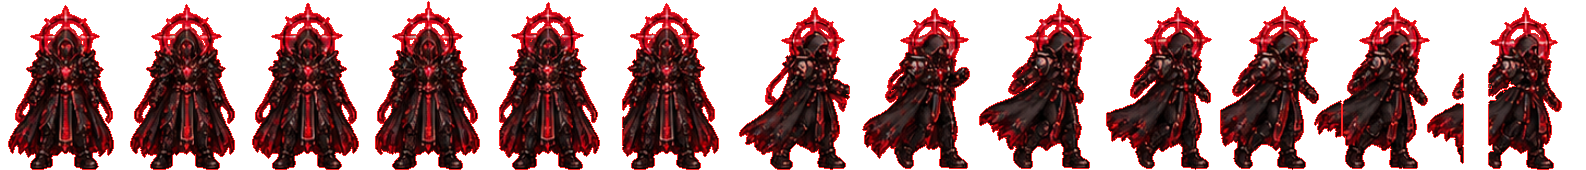
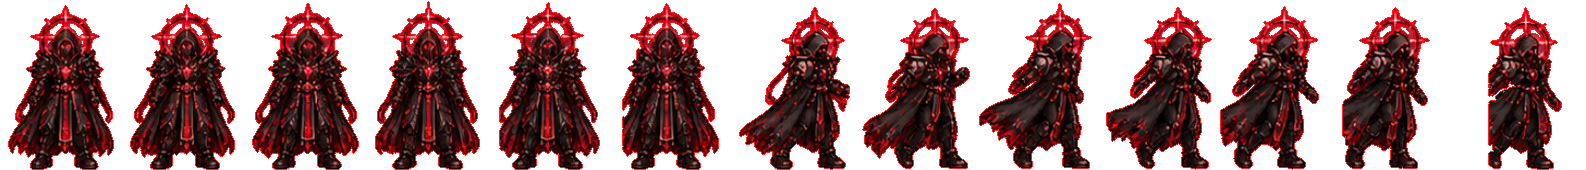
fix: 집정관·헥타르 수석 연구원·마기카이저 그림에 딸려 들어온 옆 프레임 조각 제거, 수석 연구원 이동 다시 자르기

Changed region(s): [[0.896, 0.6176, 0.9269, 0.9118], [0.8033, 0.5882, 0.8651, 0.7941], [0.896, 0.4706, 0.9269, 0.5882]]

diff --git a/docs/DECISIONS.md b/docs/DECISIONS.md
@@ -782,3 +782,4 @@
 - 2026-11-12: 보스 패턴 빈도(사용자 지정): 융합악귀·전기환띠·마기골렘을 뺀 보스(헥타르 수석 연구원·식광·마기카이저·히든보스 3종)는 패턴 사이 쉬는 시간 절반, 패턴 쿨타임 ×0.7. 패턴이 도는 동안 0.4초마다 45% 확률로 두 번째 패턴을 같이 쓴다(bosses overlap, 동시에 최대 2개). 두 번째는 본체가 움직이지 않는 패턴만(moves 표시: 마기카이저 주먹·돌진·멸망 명령, 선조의 메아리 회전 돌진, 왕실 마법사 점멸 탄막·마기 강타). 쿨타임은 일반 순환과 같이 쓴다.
 - 2026-11-12: 집행자·집정관 예고 단축(사용자 지정): 집행자 도끼 내려찍기 준비 0.6→0.05초(사실상 즉시), 밧줄 0.7→0.35초, 끌어온 뒤 도끼 0.6→0.15초. 집정관 저격 조준 1.5→0.75초(고정 0.3→0.15). 이펙트는 pixelfx 무기 그림을 물들여 쓴다: 도끼 내려찍기 fx_w_smash4·끌어온 뒤 베기 fx_w_slash4(붉은색), 저격 fx_w_beam4(보라). 공격 정의에 fx 필드.
 - 2026-11-12: 회피 재사용 대기는 회피 동작(구르기·도약 체공·방패 돌격)이 다 끝난 뒤부터 돈다(전 직업).
+- 2026-11-12: 움직일 때 잘려 보이던 적 그림 수정: 원본 줄 그림을 칸으로 자를 때 옆 자세의 끝자락이 칸 가장자리에 딸려 들어와 있었다. scripts/clean-slivers.cjs가 프레임마다 몸(가장 큰 덩어리)은 두고 칸 좌우 가장자리에 닿은 작은 조각만 지운다(집정관·마기카이저·헥타르 수석 연구원 2단계·고대의 존재, 다른 적은 가장자리에 닿은 장식이 진짜 그림이라 넣지 않음). 헥타르 수석 연구원 이동은 걸음 4개가 3칸에 잘려 있어 잘린 자리의 붉은 외곽선을 메우고 4칸으로 다시 잘랐다(이동 3→4프레임, 시전 프레임 7~9). 원본(v174)으로 art:build를 다시 돌리면 이 수정이 사라지니 그 뒤 clean-slivers --write를 다시 돌리고 수석 연구원 이동은 다시 손봐야 한다.

diff --git a/docs/ASSETS.md b/docs/ASSETS.md
@@ -158,7 +158,7 @@
 | `enemy_ancestor_echo` | 선조의 잔상 | 42×42 | feet | #b0583a | mku/enemy_ancestor_echo.png (16프레임) |
 | `enemy_royal_mage` | 왕속특무 마기법사 외 1곳 | 33×33 | feet | #6a4ad9 | mku/enemy_royal_mage.png (8프레임) |
 | `enemy_orion_crusader` | 오리온의 성전사 | 42×42 | feet | #d9c25a | mku/enemy_orion_crusader.png (16프레임) |
-| `enemy_hectar_chief` | 헥타르 수석 연구원 | 36×36 | feet | #3a9aff | mku/enemy_hectar_chief.png (9프레임) |
+| `enemy_hectar_chief` | 헥타르 수석 연구원 | 36×36 | feet | #3a9aff | mku/enemy_hectar_chief.png (10프레임) |
 | `enemy_magi_golem` | 마기골렘 | 48×48 | feet | #8a6a4a | mku/enemy_magi_golem.png (10프레임) |
 | `enemy_eclipse` | 식광 | 42×42 | feet | #c8a8ff | mku/enemy_eclipse.png (16프레임) |
 | `enemy_magi_kaiser` | 마기카이저 | 51×51 | feet | #d02828 | mku/enemy_magi_kaiser.png (10프레임) |
